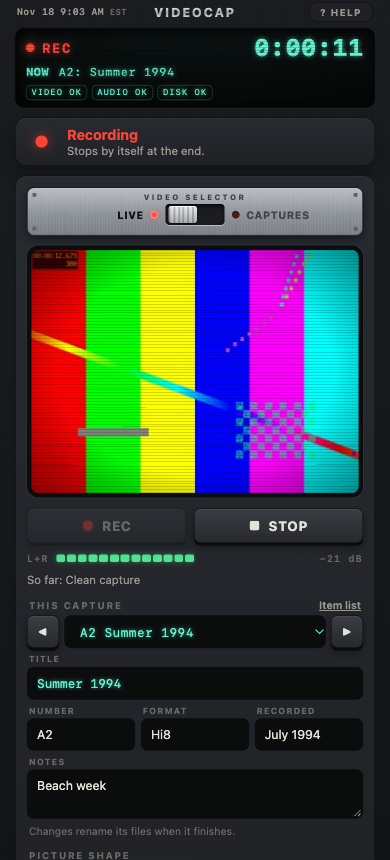
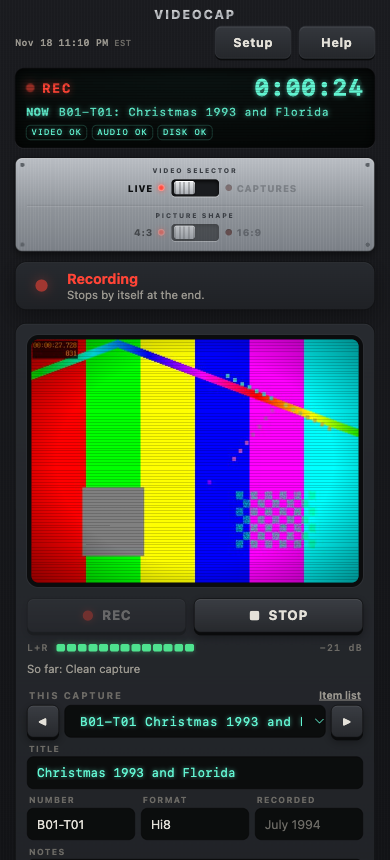
Videocap 0.0.1 alpha 3: a ready-made Pi card, setup on the page, AGENTS.md, live picture
Step-by-step instructions for the Raspberry Pi image in the README (download, Raspberry Pi Imager with its settings,
boot, open videocap.local), the changelog for alpha 3, and a screenshot of the current page.

diff --git a/videocap/__init__.py b/videocap/__init__.py
@@ -1,2 +1,2 @@
 """videocap: unattended capture from analog video to a lossless master and an MP4, for whole collections."""
-__version__ = "0.0.1a2"  # 0.0.1 alpha
+__version__ = "0.0.1a3"  # 0.0.1 alpha

diff --git a/README.md b/README.md
@@ -29,11 +29,33 @@ About $225 before the disk: a Pi 5 4 GB ($110), its 27 W power supply ($12), a c
 
 ## Install
 
-**Easiest, on a Raspberry Pi:** download `videocap-…img.xz` from the
-[latest release](https://github.com/aidansiegel/videocap/releases), write it to a microSD card with Raspberry Pi
-Imager (*Choose OS → Use custom*; in its settings, add your Wi-Fi), boot the Pi, and open **http://videocap.local/**.
+### The easy way: a ready-made Raspberry Pi card
 
-**Or on Raspberry Pi OS, Debian or Ubuntu you already have:**
+No terminal, no settings file. You need a Raspberry Pi 5, its power supply, a microSD card (16 GB or more), a USB
+capture stick and a USB disk.
+
+1. **Download** the `videocap-…img.xz` file from the
+   [latest release](https://github.com/aidansiegel/videocap/releases) (about 800 MB). Don't unzip it.
+2. **Install [Raspberry Pi Imager](https://www.raspberrypi.com/software/)** on your computer and open it.
+3. **Choose device:** Raspberry Pi 5. **Choose OS:** scroll to the bottom, *Use custom*, and pick the file you
+   downloaded. **Choose storage:** your microSD card.
+4. **Next → Edit settings** (when Imager asks whether to apply OS customization). Set these, or the Pi can't get
+   online by itself:
+   - **Hostname:** `videocap` (this becomes the address, `videocap.local`)
+   - **Username and password:** anything you'll remember (only needed if you ever log in to fix something)
+   - **Wireless LAN:** your Wi-Fi name and password, and your country (skip this if you'll plug in a network cable)
+   - **Locale:** your time zone
+5. **Save → Yes**, and wait for Imager to write and check the card.
+6. **Put the card in the Pi**, plug in the capture stick and the USB disk, then the power. Give it about 3 minutes
+   the first time.
+7. **Open http://videocap.local/** on a phone or computer on the same Wi-Fi. The setup screen opens by itself:
+   it shows what's plugged in, and you pick the TV standard, the capture stick, and where captures go.
+
+If `videocap.local` doesn't open: wait a minute and try again, try `http://videocap/`, or find the Pi's address in
+your router's list of devices. A Hauppauge USB-Live2 **Rev E1** needs an extra driver; see
+[docs/profiles.md](https://github.com/aidansiegel/videocap/blob/main/docs/profiles.md).
+
+### On a Raspberry Pi OS, Debian or Ubuntu machine you already have
 
 ```bash
 git clone https://github.com/aidansiegel/videocap.git && cd videocap

diff --git a/CHANGELOG.md b/CHANGELOG.md
@@ -1,16 +1,24 @@
 # Changelog
 
-## Unreleased
+## 0.0.1 alpha 3 (2026-11-18)
 
-- **Setup on the page:** what's plugged in, then the settings (TV standard, capture stick suggested from what it
-  calls itself, input, disk, time zone, destinations...), each saved as it changes. Opens by itself the first time.
+- **A ready-made Raspberry Pi card:** download the image, write it with Raspberry Pi Imager, boot, open
+  http://videocap.local/. Built on GitHub with pi-gen and attached to each release. (Built and checked in the build
+  log; not yet booted on a real Pi.)
+- **Setup on the page:** what's plugged in and the page's own address, then the settings (TV standard, capture stick
+  suggested from what it calls itself, input, disk, time zone, destinations...), each saved as it changes. Opens by
+  itself the first time; no settings file to edit.
 - **AGENTS.md:** how an AI agent (Codex, Claude Code) installs, sets up, runs and fixes a station for someone, and
   what it must never touch.
-- **A ready-made Raspberry Pi image**, built on GitHub with pi-gen.
-- **Tested on real hardware:** a Raspberry Pi 5 with a Hauppauge USB-Live2 Rev E1, recapturing Hi8 tapes.
+- **A live 30 fps picture** on the page while recording (motion JPEG, never able to hold up the recording).
+- **The panel beside the display:** two matching slide switches, VIDEO SELECTOR (live picture or your captures) and
+  PICTURE SHAPE (4:3 or 16:9), centered between the display and the instructions.
+- **On real hardware:** a Raspberry Pi 5 with a Hauppauge USB-Live2 Rev E1 (Debian 13). Device and disk detection,
+  setup and recording checked; the first full tape, a Hi8 recapture, was still recording at release time.
 - **Hardening** from a failure-case review: no way to add settings-file lines from the page (a hidden line break could
   have added a HOOK= run as root), no POSTs from other sites' pages, moves checked against the disk before the
-  original is deleted, crash-safe state files, unmounted masters disks caught, and more.
+  original is deleted, crash-safe state files, unmounted masters disks caught, odd titles and lists handled, and more.
+- Setup and Help as full-size buttons, the clock with AM/PM, REC and STOP under the picture.
 
 ## 0.0.1 alpha 2 (2026-11-18)
 
